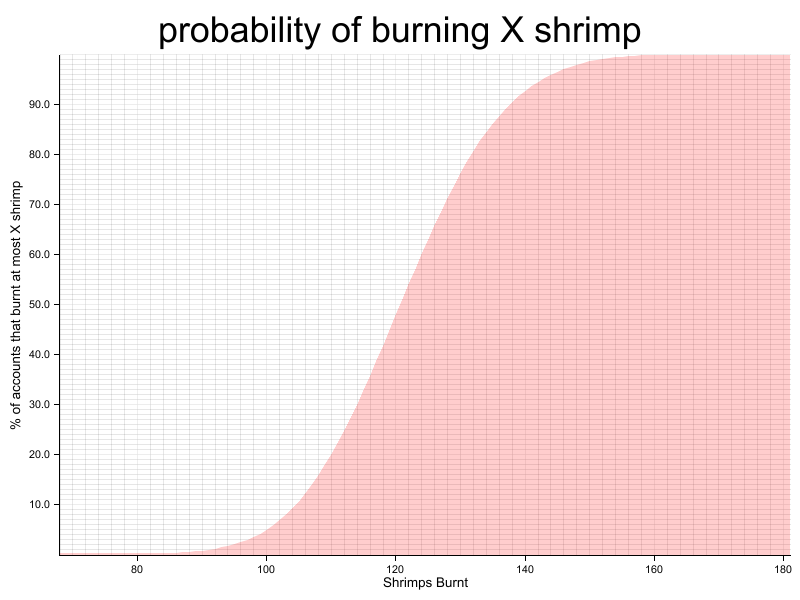
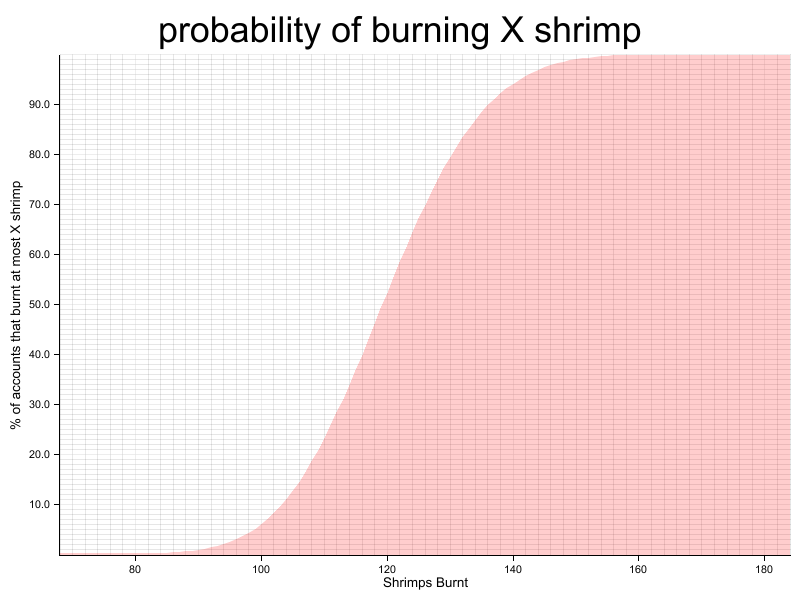
Forgot that you cook a bread on tutorial island

diff --git a/src/character.rs b/src/character.rs
@@ -16,7 +16,8 @@ pub struct Character {
 impl Character {
     pub fn after_tutorial_island() -> Character {
         Character {
-            cooking_exp: 30,
+            // one shrimp + one bread
+            cooking_exp: 30 + 40,
             cooking_stats: CookingStats {
                 cooked_shrimp: 1,
                 burnt_shrimp: 0,
